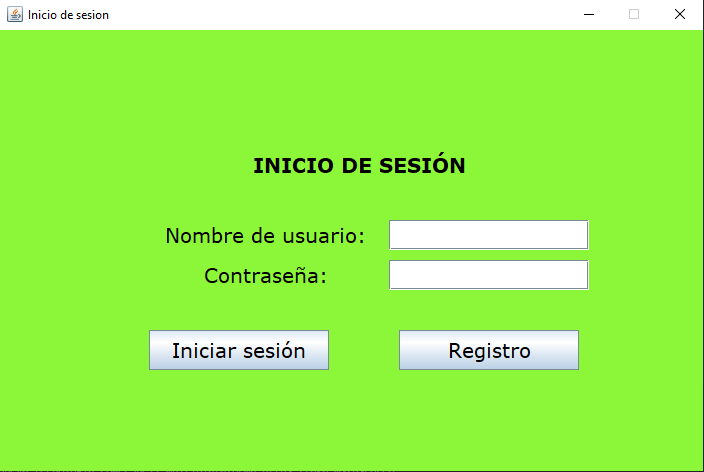
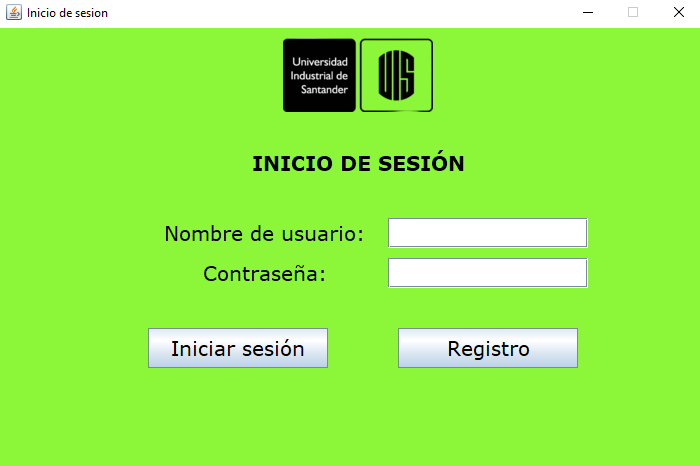
Mejorando la interfaz grafica

diff --git a/Fuente/Vista/PanelEntradaDatos.java b/Fuente/Vista/PanelEntradaDatos.java
@@ -12,8 +12,8 @@ public class PanelEntradaDatos extends JPanel
     private JTextField tfPresupuesto;
     private JLabel lbGusto;
     private JTextField tfGusto;
-    private JLabel lbFechaEntrada;
-    private JTextField tfFechaEntrada;
+    private JLabel lbnombreCliente;
+    private JTextField tfnombreCliente;
     private JLabel lbFechaSalida;
     private JTextField tfFechaSalida;
     
@@ -22,10 +22,10 @@ public class PanelEntradaDatos extends JPanel
         setLayout(null);
         setBackground(Color.decode("#11d445"));
 
-        /*iImagen = new ImageIcon(getClass().getResource("/Turismo.png"));
+        iImagen = new ImageIcon("C:/Users/57316/Desktop/Programación/Proyecto_POO/TurismoLocal/Turismo.png");
         lbImagen = new JLabel(iImagen);
         lbImagen.setBounds(10,10,200,200);
-        add(lbImagen);*/
+        add(lbImagen);
         
         lbPresupuesto = new JLabel("Cual es tu presupuesto?");
         lbPresupuesto.setBounds(210, -40, 220, 150);
@@ -41,12 +41,12 @@ public class PanelEntradaDatos extends JPanel
         tfGusto.setBounds(610, 15, 100, 40);
         add(tfGusto);
 
-        lbFechaEntrada = new JLabel("Cuando llegaste? ");
-        lbFechaEntrada.setBounds(210, 60, 220, 150);
-        add(lbFechaEntrada);
-        tfFechaEntrada = new JTextField("01/01/2023");
-        tfFechaEntrada.setBounds(355, 115, 100, 40);
-        add(tfFechaEntrada);
+        lbnombreCliente = new JLabel("Dime tu nombre");
+        lbnombreCliente.setBounds(210, 60, 220, 150);
+        add(lbnombreCliente);
+        tfnombreCliente = new JTextField("Juanito");
+        tfnombreCliente.setBounds(355, 115, 100, 40);
+        add(tfnombreCliente);
 
         lbFechaSalida = new JLabel("Cuando te vas? ");
         lbFechaSalida.setBounds(490, 60, 220, 150);
@@ -70,9 +70,9 @@ public class PanelEntradaDatos extends JPanel
         return tfFechaSalida.getText();
     }
 
-    public String getFechaEntrada()
+    public String getnombreCliente()
     {
-        return tfFechaEntrada.getText();
+        return tfnombreCliente.getText();
     }
 
     public String getPresupuesto()
@@ -82,7 +82,7 @@ public class PanelEntradaDatos extends JPanel
 
     public void borrar()
     {
-        tfFechaEntrada.setText("");
+        tfnombreCliente.setText("");
         tfFechaSalida.setText("");
         tfPresupuesto.setText("");
         tfGusto.setText("");

diff --git a/Fuente/Vista/PanelOperaciones.java b/Fuente/Vista/PanelOperaciones.java
@@ -12,6 +12,7 @@ public class PanelOperaciones extends JPanel
     public JButton bBorrar;
     public JButton bCerrarSesion;
     public JButton bDialogoTabla;
+    public JButton bMostrarDatos;
     
     public PanelOperaciones()
     {
@@ -27,14 +28,14 @@ public class PanelOperaciones extends JPanel
 
         bBorrar = new JButton("Borrar");
         bBorrar.setFont(new Font("Arial", BOLD, 12));
-        bBorrar.setBounds(80, 100, 90, 20);
+        bBorrar.setBounds(80, 180, 90, 20);
         bBorrar.setBackground(Color.decode("#eb2e21"));
         add(bBorrar);
         bBorrar.setActionCommand("borrar");
 
         bCerrarSesion = new JButton("Cerrar Sesion");
         bCerrarSesion.setFont(new Font("Arial", BOLD, 12));
-        bCerrarSesion.setBounds(210, 100, 140, 20);
+        bCerrarSesion.setBounds(210, 180, 140, 20);
         bCerrarSesion.setBackground(Color.decode("#eb2e21"));
         add(bCerrarSesion);
         bCerrarSesion.setActionCommand("cerrarSesion");
@@ -45,7 +46,13 @@ public class PanelOperaciones extends JPanel
         bDialogoTabla.setBackground(Color.decode("#21eb5d"));
         add(bDialogoTabla);
         bDialogoTabla.setActionCommand("dialogoTabla");
-
+        
+        bMostrarDatos = new JButton("Mostrar Datos");
+        bMostrarDatos.setFont(new Font("Arial" , BOLD, 12));
+        bMostrarDatos.setBounds(210, 100, 140, 20);
+        bMostrarDatos.setBackground(Color.decode("#e0f542"));
+        bMostrarDatos.setActionCommand("mostrarDatos");
+        add(bMostrarDatos);
 
         TitledBorder borde = BorderFactory.createTitledBorder("Botones");
         borde.setTitleColor(Color.decode("#c48b27"));
@@ -58,6 +65,7 @@ public class PanelOperaciones extends JPanel
         bBorrar.addActionListener(pAL);
         bCerrarSesion.addActionListener(pAL);
         bDialogoTabla.addActionListener(pAL);
+        bMostrarDatos.addActionListener(pAL);
     }
 
     public void desactivarBotonCrear()

diff --git a/Fuente/Controlador/controlador.java b/Fuente/Controlador/controlador.java
@@ -81,18 +81,26 @@ public class controlador implements ActionListener
             VentanaPrincipal venPrin = miVentanaPrincipal;
             String gusto = venPrin.miPanelEntradaDatos.getGusto();
             String fechaSalida = venPrin.miPanelEntradaDatos.getFechaSalida();
-            String fechaEntrada = venPrin.miPanelEntradaDatos.getFechaEntrada();
+            String nombreCliente = venPrin.miPanelEntradaDatos.getnombreCliente();
             int Presupuesto = Integer.parseInt(venPrin.miPanelEntradaDatos.getPresupuesto());
 
-            model1 = new Cliente(fechaSalida, fechaEntrada, Presupuesto, gusto);
+            model1 = new Cliente(fechaSalida, nombreCliente, Presupuesto, gusto);
 
             venPrin.miPanelResultado.mostrarResultado("Se ha creado un nuevo cliente");
-            venPrin.miPanelResultado.mostrarResultado("La fecha en la que llego a Socorro fue " + model1.getFechaEntrada());
+            venPrin.miPanelResultado.mostrarResultado("Nombre del cliente: " + model1.getnombreCliente());
             venPrin.miPanelResultado.mostrarResultado("La fecha en la que se ira de Socorro es " + model1.getFechaSalida());
             venPrin.miPanelResultado.mostrarResultado("Su presupesto es de $" + model1.getPresupuesto() + " pesos.");
             venPrin.miPanelResultado.mostrarResultado("Sus gustos se basan en " + model1.getGusto());
 
             venPrin.miPanelOperaciones.desactivarBotonCrear();
+        }
+
+        if(comando.equals("mostrarDatos"))
+        {
+            String mensaje1 = model1.toString();
+            miVentanaPrincipal.miPanelResultado.mostrarResultado(mensaje1);
+            String mensaje = evento1.toString();
+            miVentanaPrincipal.miPanelResultado.mostrarResultado(mensaje);
         }
 
         if(comando.equals("borrar"))

diff --git a/Fuente/Modelo/Cliente.java b/Fuente/Modelo/Cliente.java
@@ -1,14 +1,13 @@
-
-public class Cliente 
+public class Cliente
 {
     public int presupuesto;
     public String gusto;
-    public String fechaEntrada;
+    public String nombreCliente;
     public String fechaSalida;
 
-    public Cliente(String pFechaSalida, String pFechaEntrada, int pPresupuesto, String pGusto)
+    public Cliente(String pFechaSalida, String pnombreCliente, int pPresupuesto, String pGusto)
     {
-        this.fechaEntrada = pFechaEntrada;
+        this.nombreCliente = pnombreCliente;
         this.presupuesto = pPresupuesto;
         this.fechaSalida = pFechaSalida;
         this.gusto = pGusto;
@@ -24,14 +23,14 @@ public class Cliente
         this.presupuesto = pPresupuesto;
     }
 
-    public String getFechaEntrada()
+    public String getnombreCliente()
     {
-        return this.fechaEntrada;
+        return this.nombreCliente;
     }
 
-    public void setFechaIngreso(String pFechaEntrada)
+    public void setNombreCliente(String pnombreCliente)
     {
-        this.fechaEntrada = pFechaEntrada;
+        this.nombreCliente = pnombreCliente;
     }
 
     public String getFechaSalida()
@@ -46,7 +45,7 @@ public class Cliente
 
     public String toString()
     {
-        return "";
+        return "Nombre del cliente: " + getnombreCliente() + "\nPresupuesto del cliente: " + getPresupuesto() + "\nGustos del cliente: " + getGusto() + "\nFecha a la que se ira el cliente: " + getFechaSalida();
     }
 
     public String getGusto() 

diff --git a/Fuente/Modelo/Evento.java b/Fuente/Modelo/Evento.java
@@ -1,4 +1,3 @@
-
 public class Evento
 {
     public int numGrupo;
@@ -6,8 +5,7 @@ public class Evento
     public String fechaApertura;
     public String tipoEvento;
 
-    public Evento(int numGrupo, String nombreSitio, String fechaApertura,
-            String tipoEvento) 
+    public Evento(int numGrupo, String nombreSitio, String fechaApertura, String tipoEvento) 
     {
         this.numGrupo = numGrupo;
         this.nombreSitio = nombreSitio;
@@ -49,6 +47,6 @@ public class Evento
     }
     public String toString()
     {
-        return "\nNombre sitio: " + getNombreSitio() + "\nTipo evento: " + getTipoEvento() + "\nNumero de personas que asistiran: " + getNumGrupo() + "\nFecha en la que se llevara a cabo el evento: " + getFechaApertura();
+        return "Nombre sitio: " + getNombreSitio() + "\nTipo evento: " + getTipoEvento() + "\nNumero de personas que asistiran: " + getNumGrupo() + "\nFecha en la que se llevara a cabo el evento: " + getFechaApertura();
     }
 }

diff --git a/Fuente/Vista/PanelLogin.java b/Fuente/Vista/PanelLogin.java
@@ -12,9 +12,16 @@ public class PanelLogin extends JPanel
     private JTextField pfContraseñaLogin;
     public final JButton btnAccionLogin;
     public JButton btnDialogo;
+    private ImageIcon iImagen;
+    private JLabel lbImagen;
 
     public PanelLogin()
     {
+        iImagen = new ImageIcon("C:/Users/57316/Desktop/Programación/Proyecto_POO/TurismoLocal/Logo.png");
+        lbImagen = new JLabel(iImagen);
+        lbImagen.setBounds(285,10,150,74);
+        add(lbImagen);
+        
         lbTituloLogin = new JLabel("INICIO DE SESIÓN", SwingConstants.CENTER);
         lbTituloLogin.setFont(new Font("Verdana", Font.BOLD, 20));
         lbTituloLogin.setForeground(Color.BLACK);

diff --git a/Fuente/Modelo/Grupo.java b/Fuente/Modelo/Grupo.java
@@ -5,20 +5,9 @@ public class Grupo
     // public String gustos[];
     public String tipoActividad;
 
-    public Grupo(int pnumPersonas, String ptipoActividad)
+    public Grupo(String ptipoActividad)
     {
-        this.numPersonas = pnumPersonas;
         this.tipoActividad = ptipoActividad;
-    }
-    
-    public int getnumPersonas()
-    {
-        return this.numPersonas;
-    }
-
-    public void setnumPersonas(int pnumPersonas)
-    {
-        this.numPersonas = pnumPersonas;
     }
 
     public String gettipoActividad()

diff --git a/README.md b/README.md
@@ -4,10 +4,10 @@ Este proyecto se trata acerca de un programa para mejorar el turismo local en la
 
 ## Captura de pantalla
 
-## Captura de pantalla Login
+### Captura de pantalla Login
 
 ![Captura Login](/Documentos/captura_login.png)
 
-## Captura de pantalla Ventana Principal
+### Captura de pantalla Ventana Principal
 
 ![Captura Ventana Principal](/Documentos/captura_ventana_principal.png)
